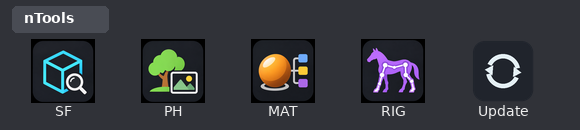
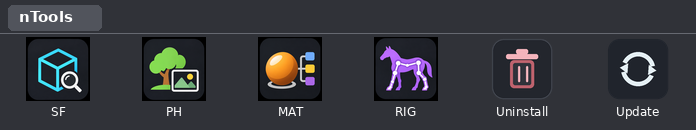
Release nTools v1.0.2 - Add uninstall button

Changed region(s): [[0.0, 0.0308, 1.0, 0.8923], [0.8379, 0.4, 0.9621, 0.7077]]

diff --git a/install.py b/install.py
@@ -24,7 +24,7 @@ SHELF = 'nTools'
 PACKAGE = 'ntools'
 MAX_BYTES = 32 * 1024 * 1024
 _RESTART_REQUIRED = False
-INSTALLER_VERSION = '1.0.1'
+INSTALLER_VERSION = '1.0.2'
 
 
 def _maya():
@@ -226,12 +226,71 @@ def _owned_shelf():
         if not cmds.shelfButton(full, exists=True): return False
         command = cmds.shelfButton(full, q=True, command=True) or ''
         if 'from ntools import installer as nt' not in command: return False
-        if not re.search(r"nt\.(?:launch\(|update\(|manage\()", command): return False
+        if not re.search(r"nt\.(?:launch\(|update\(|manage\(|uninstall_from_shelf\()", command): return False
     return True
 
 
 def _layout_signature(m):
-    return [(t['id'],t['label'],t['short'],t['icon'],t['description']) for t in m['tools']]
+    return ([(t['id'],t['label'],t['short'],t['icon'],t['description']) for t in m['tools']],
+            'scripts/ntools/icons/uninstall.png' in m['files'])
+
+
+def _management_button(kind):
+    if kind == 'uninstall':
+        return dict(label='Uninstall nTools', annotation='Uninstall nTools (confirmation required)',
+                    image1=(_target()/'icons'/'uninstall.png').as_posix(),
+                    imageOverlayLabel='Uninstall', sourceType='python',
+                    command=_command('nt.uninstall_from_shelf()'))
+    return dict(label='Update nTools', annotation='Check GitHub for updates',
+                image1=(_target()/'icons'/'update.png').as_posix(),
+                imageOverlayLabel='Update', sourceType='python',
+                command=_command('nt.update()'))
+
+
+def _button_paths(shelf):
+    cmds, _ = _maya()
+    return [child if child.startswith(shelf+'|') else shelf+'|'+child.split('|')[-1]
+            for child in (cmds.shelfLayout(shelf,q=True,childArray=True) or [])]
+
+
+def add_uninstall_button():
+    """Explicit v1.0.1 migration: no deleteUI, no tab recreation.
+    Append new Update first, then edit the old rightmost Update into Uninstall.
+    Only the exact known five-button layout is eligible.
+    """
+    try:
+        if getattr(sys,'_ntools_restart_required',False):
+            _notify('先にMayaを再起動してください。'); return
+        before=_ui_snapshot(); cmds,_=_maya(); m=_installed()
+        if m is None or not (_target()/'icons'/'uninstall.png').is_file():
+            raise RuntimeError('先にnTools v1.0.2以降を導入してください。')
+        shelf=_shelf()
+        if not cmds.shelfLayout(shelf,exists=True):
+            _notify('シェルフがありません。Repair Shelfを選択してください。');return
+        paths=_button_paths(shelf)
+        if not _owned_shelf():
+            raise RuntimeError('管理対象外のボタンがあるため変更しません。')
+        commands=[(cmds.shelfButton(p,q=True,command=True) or '').strip() for p in paths]
+        expected=[_command('nt.launch('+repr(t['id'])+')').strip() for t in m['tools']]
+        update_cmd=_command('nt.update()').strip()
+        uninstall_cmd=_command('nt.uninstall_from_shelf()').strip()
+        if commands==expected+[uninstall_cmd,update_cmd]:
+            _notify('Uninstallボタンは既に登録されています。');return
+        if commands!=expected+[update_cmd]:
+            raise RuntimeError('既知の旧シェルフ構成と一致しません。既存タブは変更しません。')
+        if not _confirm('nToolsの右端にUninstallを追加します。Updateは一番右に維持します。\n他のシェルフは変更しません。','Add'):
+            return
+        _backup_ui()
+        # Append before editing so a failure cannot remove the only Update.
+        cmds.shelfButton(parent=shelf,**_management_button('update'))
+        cmds.shelfButton(paths[-1],e=True,**_management_button('uninstall'))
+        if _ui_snapshot()!=before:
+            raise RuntimeError('Mayaのメニュー状態が変化しました。追加操作を中止しました。')
+        if not cmds.saveShelf(SHELF,_shelf_path().as_posix()):
+            raise RuntimeError('シェルフを保存できませんでした。')
+        _notify('Uninstallボタンを追加しました。Mayaを再起動して確認してください。')
+    except Exception as exc:
+        traceback.print_exc(); _notify('ボタン追加中止：\n'+str(exc)+'\n自動でシェルフを削除・再構築しません。')
 
 
 def register_shelf(manifest=None):
@@ -250,7 +309,9 @@ def register_shelf(manifest=None):
         if not cmds.shelfLayout(shelf,exists=True): raise RuntimeError('Cannot create nTools shelf.')
         for t in m['tools']:
             cmds.shelfButton(parent=shelf,label=t['label'],annotation=t['label']+' | '+t['description'],image1=(_target()/'icons'/t['icon']).as_posix(),imageOverlayLabel=t['short'],sourceType='python',command=_command('nt.launch('+repr(t['id'])+')'))
-        cmds.shelfButton(parent=shelf,label='Update nTools',annotation='Check GitHub for updates',image1=(_target()/'icons'/'update.png').as_posix(),imageOverlayLabel='Update',sourceType='python',command=_command('nt.update()'))
+        if (_target()/'icons'/'uninstall.png').is_file():
+            cmds.shelfButton(parent=shelf,**_management_button('uninstall'))
+        cmds.shelfButton(parent=shelf,**_management_button('update'))
         if _ui_snapshot()!=before: raise RuntimeError('Mayaのメニュー状態が変化しました。作業を中止しました。')
         # Save only this shelf, not all Maya preferences.
         path=_shelf_path(); path.parent.mkdir(parents=True,exist_ok=True)
@@ -280,12 +341,20 @@ def repair_shelf():
         traceback.print_exc(); _notify('シェルフ登録失敗：\n'+str(exc)+'\n本体は保持しています。MayaのUIを確認してください。')
 
 
+def uninstall_from_shelf():
+    # Do not delete a shelf while its own button callback is executing.
+    from maya.utils import executeDeferred
+    executeDeferred(uninstall)
+
+
 def uninstall():
     """Conservative uninstall: Maya handles its own shelf deletion; archive package."""
     try:
         _ui_snapshot(); cmds,mel=_maya(); dest=_target()
+        if getattr(sys,'_ntools_restart_required',False):
+            _notify('先にMayaを再起動してください。');return
         if _installed() is None: raise RuntimeError('認識できるnTools本体がありません。変更しません。')
-        if not _confirm('nToolsを削除します。シーン・他のシェルフは変更しません。\n本体はバックアップに移動します。','Uninstall'):return
+        if not _confirm('nToolsを削除します。シーン・他のシェルフは変更しません。\nシーンを保存し、nToolsのウィンドウを閉じてから実行してください。\n本体はバックアップに移動します。削除後はMayaを再起動してください。','Uninstall'):return
         if cmds.shelfLayout(_shelf(),exists=True):
             if not _owned_shelf(): raise RuntimeError('nToolsシェルフに未確認のボタンがあります。Shelf Editorで手動削除してください。')
             _backup_ui(); before=_ui_snapshot()
@@ -303,9 +372,10 @@ def uninstall():
 
 def manage():
     cmds,_=_maya()
-    choice=cmds.confirmDialog(title='nTools Manager',message='nToolsの管理操作を選んでください。',button=['Update','Repair Shelf','Uninstall','Cancel'],defaultButton='Cancel',cancelButton='Cancel',dismissString='Cancel')
+    choice=cmds.confirmDialog(title='nTools Manager',message='nToolsの管理操作を選んでください。',button=['Update','Repair Shelf','Add Uninstall Button','Uninstall','Cancel'],defaultButton='Cancel',cancelButton='Cancel',dismissString='Cancel')
     if choice=='Update': update()
     elif choice=='Repair Shelf': repair_shelf()
+    elif choice=='Add Uninstall Button': add_uninstall_button()
     elif choice=='Uninstall': uninstall()
 
 
@@ -356,7 +426,7 @@ def _apply(m,payload):
 
 def _confirm(message, yes='Install'):
     cmds,_=_maya()
-    return cmds.confirmDialog(title='nTools',message=message,button=[yes,'Cancel'],defaultButton=yes,cancelButton='Cancel',dismissString='Cancel')==yes
+    return cmds.confirmDialog(title='nTools',message=message,button=[yes,'Cancel'],defaultButton='Cancel',cancelButton='Cancel',dismissString='Cancel')==yes
 
 
 def _notify(message):
@@ -387,7 +457,7 @@ def install(source=None):
                 traceback.print_exc(); _notify('本体の導入は完了しましたが、シェルフ登録を中止しました。\n'+str(exc)+'\nMayaのUIを確認後、Repair Shelfを実行してください。');return
         note='Mayaを再起動してください。' if restart else 'nTools シェルフを選んでください。'
         if not exists and choice=='Files Only': note='本体のみ導入しました。Mayaを再起動してUIを確認後、Repair Shelfを実行してください。'
-        if old and _layout_signature(old)!=_layout_signature(m): note+='\nボタン構成が変わりました。必要に応じてRepair Shelfを実行してください。'
+        if old and _layout_signature(old)!=_layout_signature(m): note+='\nボタン構成が変わりました。再起動後、管理メニューのAdd Uninstall Button（旧5ボタン用）またはRepair Shelf（未登録時）を利用してください。'
         _notify('インストール完了！ nTools '+m['version']+'\n'+note)
     except Exception as exc:
         traceback.print_exc();_notify('インストール失敗：\n'+str(exc)+'\n詳細は Script Editor を確認してください。')
@@ -406,7 +476,7 @@ def update():
         changed=_layout_signature(old)!=_layout_signature(m)
         if not _confirm('nTools '+old['version']+' → '+m['version']+'\n本体のみ更新します。シェルフは変更しません。\nシーンを保存し、ツールの作業を終えてください。\n更新後は Maya の再起動が必要です。','Update'):return
         _apply(m,payload)
-        _notify('更新完了：nTools '+m['version']+'\nMayaを再起動してください。'+('\nボタン構成が変わりました。必要に応じてRepair Shelfを実行してください。' if changed else ''))
+        _notify('更新完了：nTools '+m['version']+'\nMayaを再起動してください。'+('\nボタン構成が変わりました。再起動後、管理メニューのAdd Uninstall Button（旧5ボタン用）またはRepair Shelf（未登録時）を利用してください。' if changed else ''))
     except Exception as exc:
         traceback.print_exc();_notify('更新失敗：\n'+str(exc)+'\n詳細は Script Editor を確認してください。')
 

diff --git a/release.py b/release.py
@@ -1,5 +1,5 @@
 #!/usr/bin/env python3
-"""Maintainer: python release.py 1.0.1 (outside Maya)."""
+"""Maintainer: python release.py 1.0.2 (outside Maya)."""
 import hashlib
 import json
 from pathlib import Path
@@ -15,7 +15,7 @@ TOOLS=[
 ]
 
 def main(version):
-    if not re.fullmatch(r'\d+\.\d+\.\d+',version):raise ValueError('Use x.y.z, e.g. 1.0.1')
+    if not re.fullmatch(r'\d+\.\d+\.\d+',version):raise ValueError('Use x.y.z, e.g. 1.0.2')
     pkg=ROOT/'scripts'/'ntools'
     paths=[ROOT/'install.py',pkg/'__init__.py']+sorted((pkg/'tools').glob('*.py'))+sorted((pkg/'icons').glob('*.png'))
     for p in paths:
@@ -27,5 +27,5 @@ def main(version):
     print('Manifest generated:',version)
 
 if __name__=='__main__':
-    if len(sys.argv)!=2:raise SystemExit('Usage: python release.py 1.0.1')
+    if len(sys.argv)!=2:raise SystemExit('Usage: python release.py 1.0.2')
     main(sys.argv[1])

diff --git a/docs/maintainer.md b/docs/maintainer.md
@@ -1,4 +1,4 @@
-# nTools 管理者向けガイド v1.0.1
+# nTools 管理者向けガイド v1.0.2
 
 ## 公開・移行
 
@@ -6,17 +6,17 @@ ZIPの中身を既存のGit作業フォルダに上書きコピーする。`.git
 
 ```bash
 git add .
-git commit -m "Release nTools v1.0.1 - safer installer"
+git commit -m "Release nTools v1.0.2 - safer installer"
 git push
 ```
 
-旧v1.0.0ユーザーは古いUpdateボタンを使用せず、新ZIPのinstall.pyから手動移行。既存シェルフを保持する。v1.0.1以降は通常Updateを利用できる。
+旧v1.0.0ユーザーは古いUpdateボタンを使用せず、新ZIPのinstall.pyから手動移行。既存シェルフを保持する。v1.0.1以降は通常Updateを利用できる。v1.0.1からv1.0.2へ更新後は再起動し、管理メニューのAdd Uninstall Buttonを選ぶ。
 
 ## 実機検証手順（Windows / macOS）
 
 1. Mayaの設定フォルダをMaya終了中に別の場所へコピーし、復旧できるようにする。既存の制作シーンは保存する。可能なら検証専用OSユーザーを使用する。
 2. 起動してFile等のメニュー、メニューセット、他シェルフを確認。Files Onlyで導入する。
-3. Maya再起動後、UIが正常ならREADMEの管理コードからRepair Shelfを選択する。4ツールとUpdateを確認し、各ツールの起動を試す。
+3. Maya再起動後、UIが正常ならREADMEの管理コードからRepair Shelfを選択する。4ツール、Uninstall、Updateを確認し、各ツールの起動を試す。
 4. Maya再起動後にシェルフが残ること、File等のメニューが表示されることを確認。
 5. Updateボタンで最新版判定を確認。次のテスト版を公開して更新するとき、既存シェルフのボタン数・順序、メニューが変化しないことを確認。
 6. 検証用環境でUninstallを試し、Mayaの削除確認、再起動後のnTools消失、他タブとメニューの維持を確認。キャンセル時に本体が残ることも確認。
@@ -25,16 +25,17 @@ git push
 
 - 1.0.0: 初回配布。通常更新でもシェルフを再構築。
 - 1.0.1: パッケージ置換をシェルフ操作から分離。既存タブは再構築しない。修復は欠落タブに限定。Maya公式addNewShelfTab / deleteShelfTabを使用し、独自deleteUIでタブを削除しない。メニューセットを読み取り確認し、関連設定をバックアップ。全体設定の自動リセットなし。
-- 元の4ツールおよびアイコンは変更なし。
+- 1.0.2: Uninstallボタンを追加。削除は遅延実行、確認の初期選択はCancel。旧5ボタンへの明示的追加機能を搭載。
+- 元の4ツールおよび既存アイコンは変更なし。
 
 ## 次のリリース
 
 ツール本体を `scripts/ntools/tools/` 内の該当ファイルで上書きする。必要に応じ `release.py` のTOOLSリストでバージョン、説明等を修正する。アイコンは `scripts/ntools/icons/` に配置。配布に含めるファイルのハッシュを生成する：
 
 ```bash
-python release.py 1.0.2
+python release.py 1.0.3
 git add .
-git commit -m "Release nTools v1.0.2"
+git commit -m "Release nTools v1.0.3"
 git push
 ```
 
